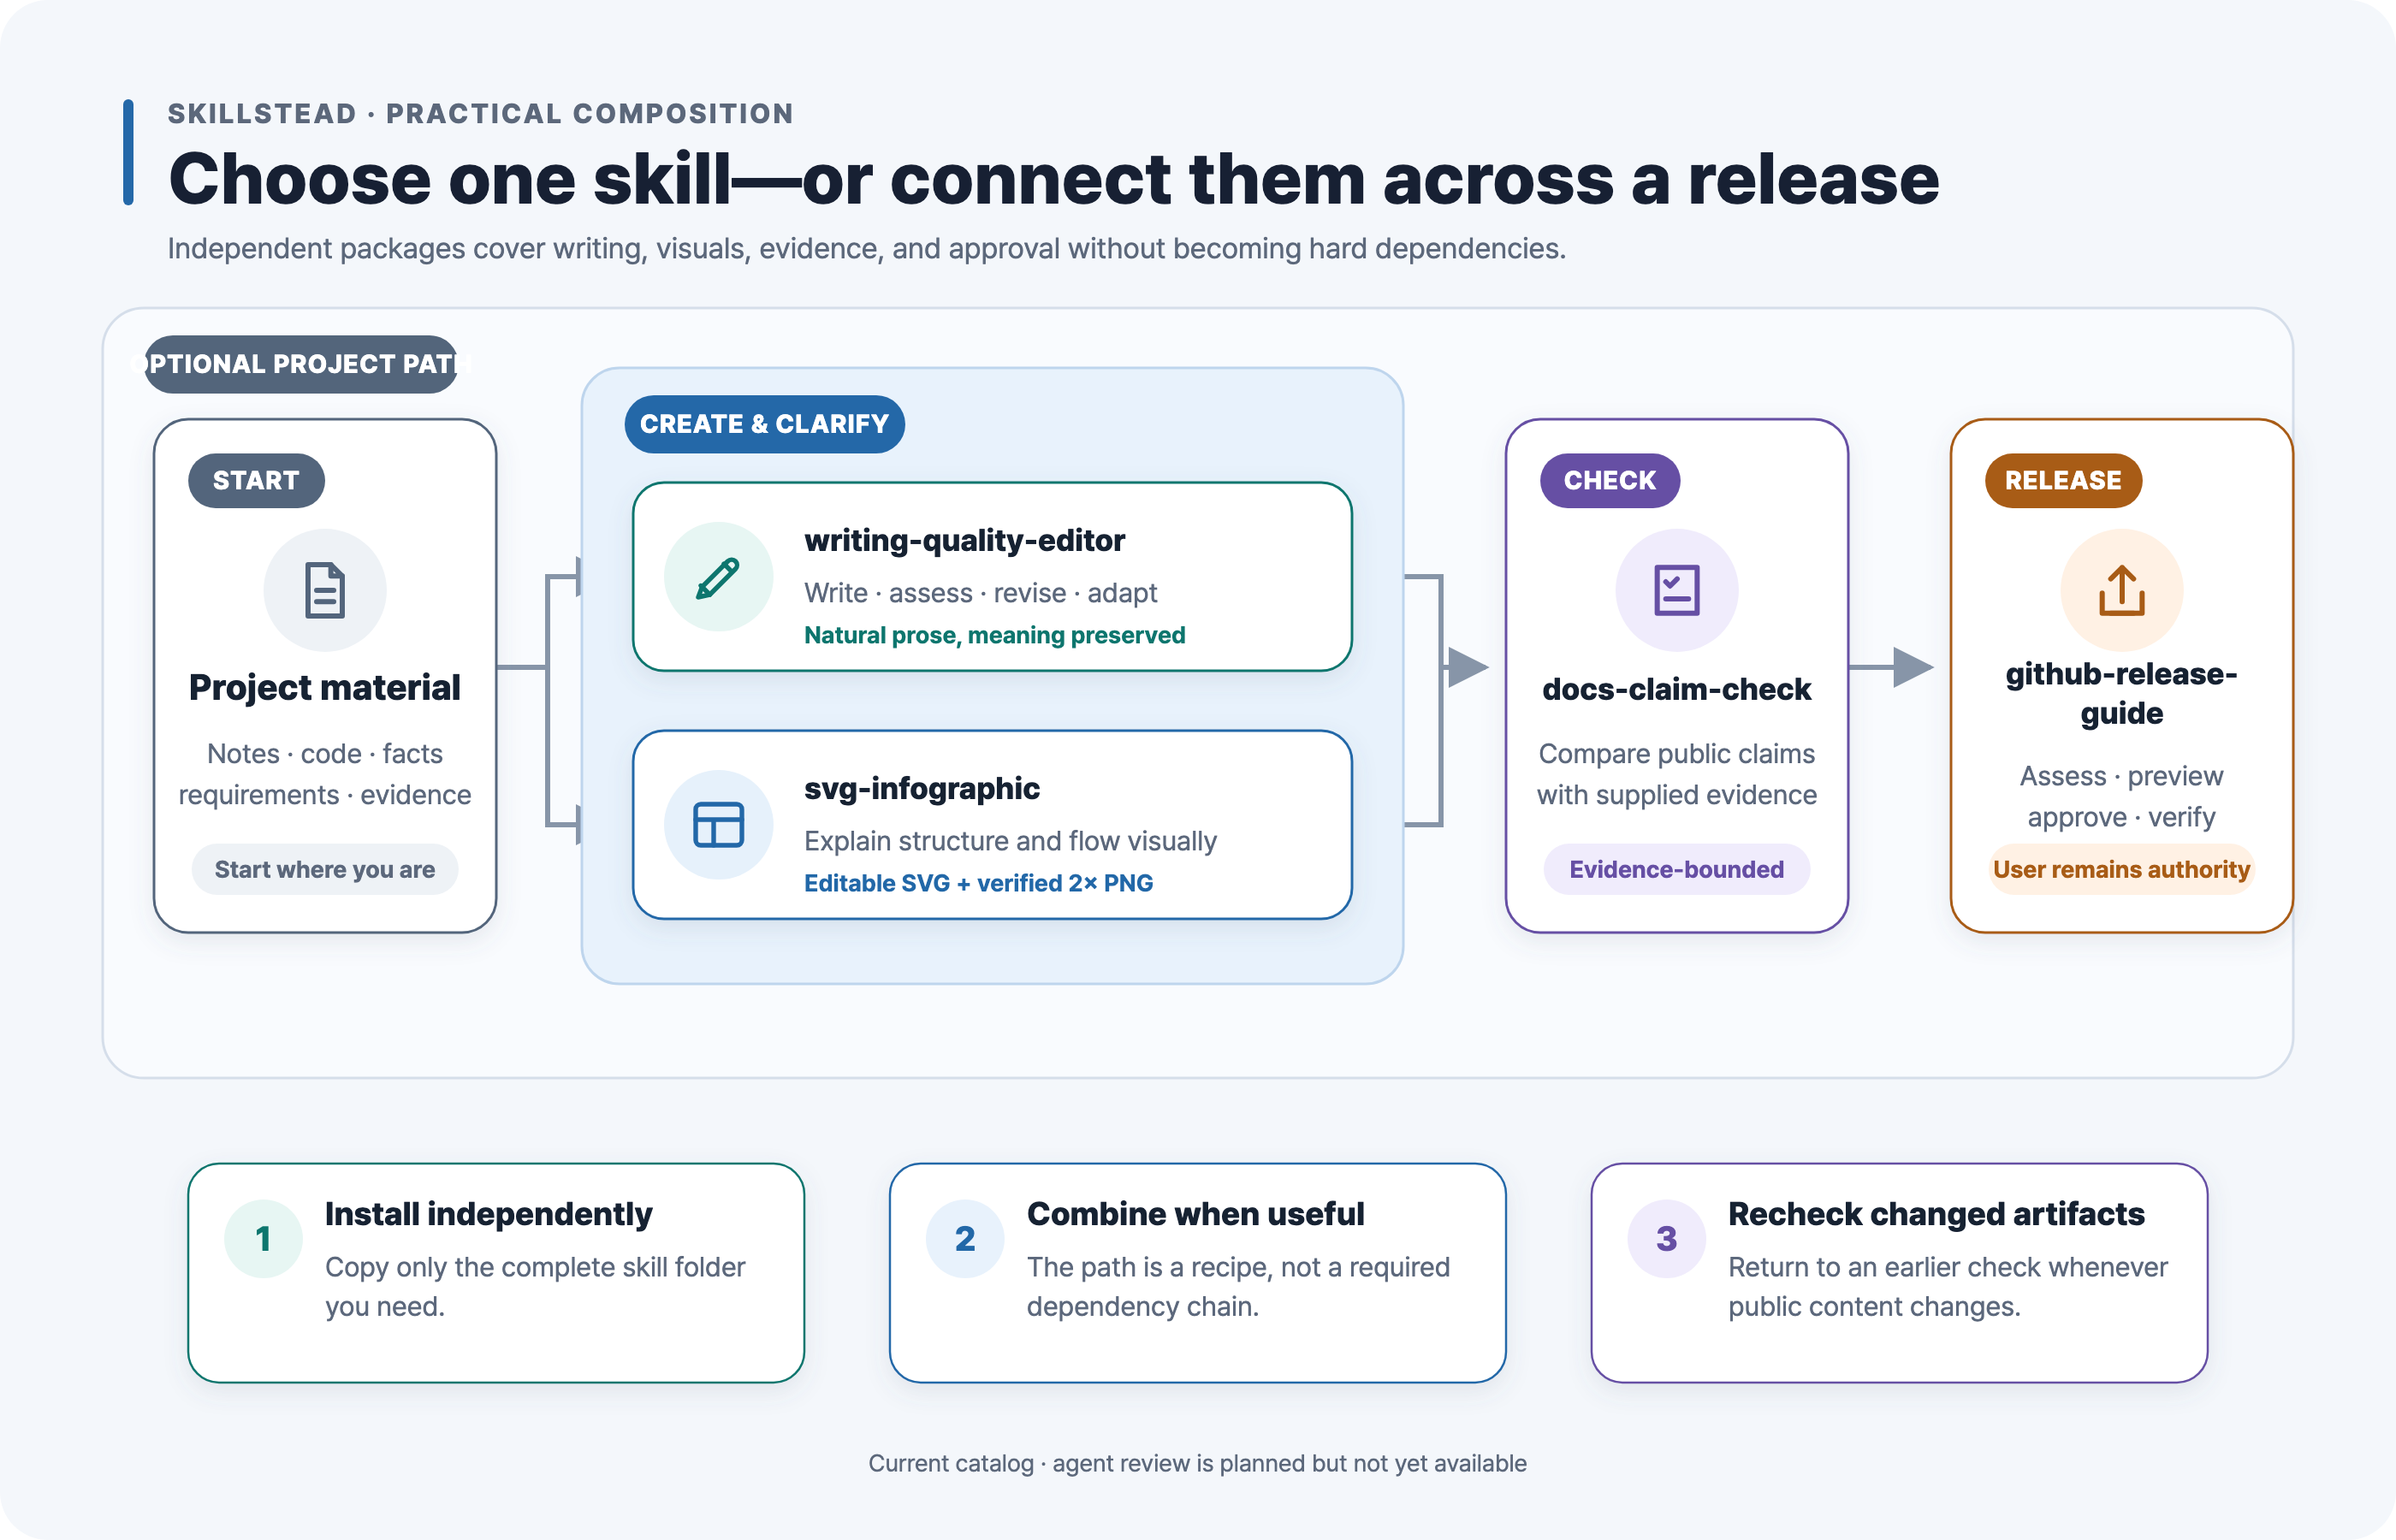
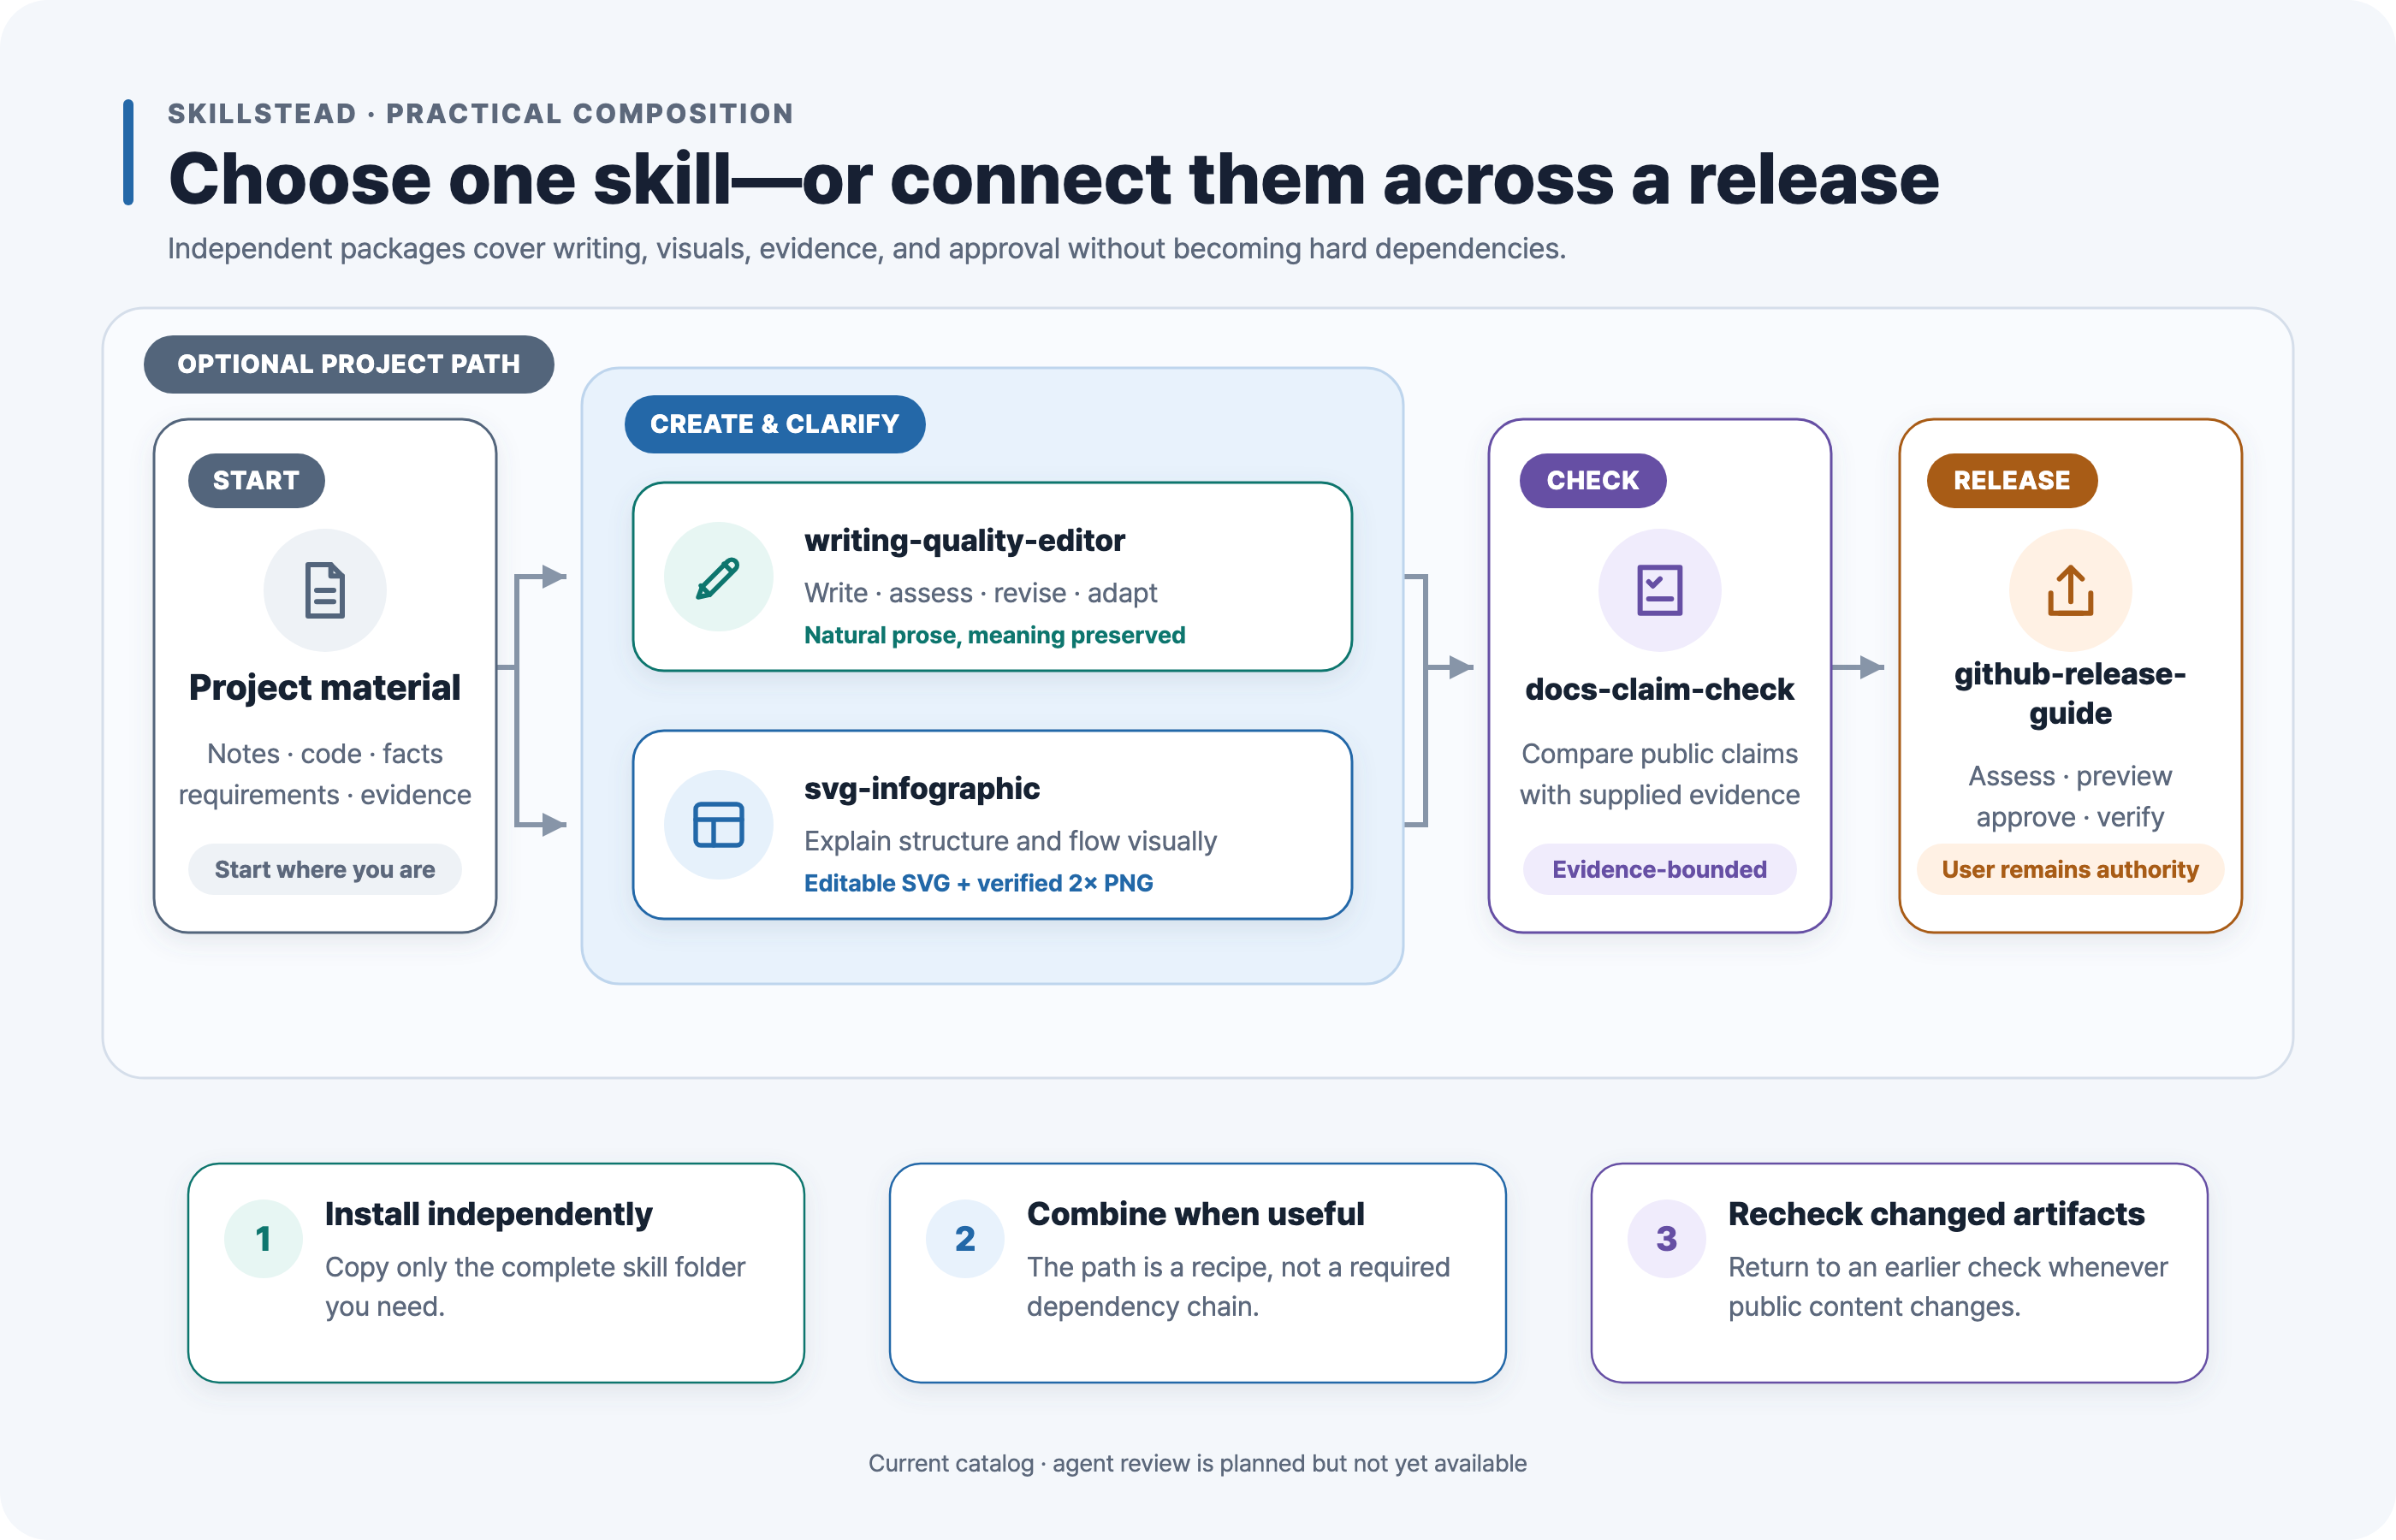
release: v0.7.0 릴리스 준비와 SVG 안정성 보강
writing-quality-editor의 릴리스 문서와 검증 근거를 정리하고,
catalog overview dogfood에서 확인한 containment 및 connector 규칙을 보강한다.

diff --git a/examples/catalog-overview-validation-evidence-20260718.md b/examples/catalog-overview-validation-evidence-20260718.md
@@ -1,0 +1,35 @@
+# Catalog Overview Connector Validation — 2026-07-18
+
+## Scope
+
+- Assets: `examples/catalog-overview.en.svg`, `examples/catalog-overview.ko.svg`, and their 2× PNG exports.
+- Reusable contract: `skills/svg-infographic/SKILL.md` and `skills/svg-infographic/references/authoring.md`.
+- Trigger: clipped pill labels, a release card outside its parent panel, and connectors whose arrowheads obscured nearly all of the visible shaft.
+- Provenance: Claude Code implemented and rendered the correction and performed full-frame/crop QA; Codex independently re-opened both final PNGs and reran the package, XML, geometry-parity, dimension, and whitespace checks below.
+
+## Corrective Design
+
+- Count stroke, shadow, badges, and markers when calculating visual containment.
+- Size pills and badges from the wider rendered label plus horizontal padding.
+- Use `markerUnits="userSpaceOnUse"` for predictable arrowhead geometry and place the marker tip at the path endpoint.
+- Budget the connector corridor for the arrowhead, a visible shaft, and an 8–12 px target gap.
+- Choose among a standard arrow, compact arrow, transition glyph, or layout reflow according to meaning and available space.
+
+The catalog keeps standard arrows because its connectors carry one consistent visual language. The final short corridor was widened by moving the check and release stages within the existing panel instead of widening the canvas.
+
+## Verification Results
+
+| Check | Result |
+| --- | --- |
+| Skill package validator | Pass — `Skill is valid!` |
+| SVG XML parse (`xmllint --noout`) | Pass — 2/2 |
+| English/Korean geometry parity | Pass — 117/117 ordered elements match on geometry attributes |
+| PNG dimensions (`sips`) | Pass — both exports are 2800 × 1800 |
+| Repository whitespace check (`git diff --check`) | Pass |
+| Full-frame and connector-crop visual review | Pass — no clipping, escaped card, CJK tofu, unresolved connector, or head-only arrow observed |
+
+## Evidence Boundary
+
+- Validation was performed on macOS against the catalog overview pair and the current skill package.
+- Geometry parity compares ordered SVG elements and geometry attributes; localized text intentionally differs.
+- Visual review is bounded to these rendered assets. It demonstrates the revised contract on this dogfood case, not that every future diagram will pass without its own pre-render and PNG review.

diff --git a/examples/writing-quality-editor/release-claim-audit-v0.7.0-prepublish-20260718.md b/examples/writing-quality-editor/release-claim-audit-v0.7.0-prepublish-20260718.md
@@ -1,0 +1,33 @@
+## Input Scope Reviewed
+
+- Documents: release-critical claims quoted from `README.md`, `README.ko.md`, `docs/INSTALL.md`, `skills/writing-quality-editor/README.md`, `skills/writing-quality-editor/README.ko.md`, and the proposed `CHANGELOG.md` v0.7.0 section; reviewed 2026-07-18.
+- Evidence reviewed: `RELEASE-EVIDENCE.md` with repository, merge, package-validation, clean-install, and runtime outputs observed through 2026-07-18 12:50 KST; `fixtures/validation-evidence.md`; `playbook-dogfood-claim-audit-follow-up-20260718.md`; `playbook-dogfood-claim-audit-parity-correction-20260718.md`; the merged `skills/writing-quality-editor/SKILL.md`.
+- Requested but missing: a published `v0.7.0` tag and fresh pinned-tag clone, package-equality, and Claude Code/Codex discovery outputs. The tag does not yet exist because publication remains separately approval-gated.
+- Excluded: historical v0.1.0–v0.6.0 claims and claims for `docs-claim-check` and `github-release-guide` (outside the v0.7.0 WQE release delta); the later `svg-infographic` connector and containment delta (recorded through separate mechanical and visual validation in `examples/catalog-overview-validation-evidence-20260718.md`); subjective prose-quality promises (not objectively decidable); security claims (outside claim-check scope); link and render correctness (separate mechanical validation).
+- Commands executed during the assessment: none
+- Coverage: 13 claims extracted / 13 assessed / 0 excluded
+
+## Claim Assessments
+
+| ID | Atomic claim + location | Evidence anchor | Label | Reason | Limitation / Evidence request |
+| --- | --- | --- | --- | --- | --- |
+| RC-1 | `writing-quality-editor` is a new Beta skill — `CHANGELOG.md` v0.7.0 | Merged package inventory, PR #18 merge `7b65d70`, root catalog maturity row | `verified` | The package first appears in the v0.7.0 delta and every reviewed maturity label is Beta. | Verified for the reviewed merge and release-prep documents; no Stable claim is implied. |
+| RC-2 | The core modes are Compose, Assess, Revise, and Adapt — changelog and skill README | `SKILL.md` `Choose The Mode`; both clean discovery outputs | `verified` | The contract defines those four modes in that order, and both runtimes returned the same ordered list after loading the installed skill. | Mode behavior is bounded by the recorded fixture and discovery evidence. |
+| RC-3 | The contract protects facts, intent, voice, conditions, numbers, identifiers, limitations, risks, approvals, and next actions — changelog | `SKILL.md` `Bound The Meaning Before Writing` and `Run The Delta Audit` | `verified` | Every named invariant is explicitly included in the ledger or delta-audit contract. | This verifies the documented contract and recorded behavior, not technical enforcement by a sandbox. |
+| RC-4 | The package has EN/KO READMEs, UI metadata, three named references, 21 scenarios, and a separate answer key — changelog | Merge package inventory; validator result; scenario/answer-key parity in `validation-evidence.md` | `verified` | The installed package shape contains the claimed user-facing and reference files; repository evidence records 21 scenarios and 21 answer-key rows. | Fixtures and answer key are repository-only and are not part of the installed package. |
+| RC-5 | Cross-runtime behavior, repository dogfood, and clean merge-commit installation/discovery passed — changelog | `validation-evidence.md`; dogfood audit pair; clean-install output in `RELEASE-EVIDENCE.md` | `verified` | The evidence records the behavior/parity legs, scoped README and playbook dogfood, byte-identical installs, and successful skill loading on both runtimes. | This does not verify a published tag or justify `Supported` before post-release closure. |
+| RC-6 | Runtime support remains unclaimed/Pending until pinned v0.7.0 verification and post-release claim closeout — root README and install matrix | Public wording in the scoped documents; release-state and remaining-gate entries in `RELEASE-EVIDENCE.md` | `verified` | The documents consistently retain Pending/unclaimed status and identify the same two remaining gates. | This is a current process/status claim, not evidence that the future gates will pass. |
+| RC-7 | Initial recorded localization coverage is limited to English↔Korean with `ko-KR` Korean output — root README and changelog | `SKILL.md` frontmatter and EN↔KO reference; fixture coverage in `validation-evidence.md` | `verified` | The contract names EN↔KO as the initial profile and explicitly prohibits unvalidated locale claims. | Locale-neutral design is an architecture statement; behavioral evidence is limited to EN↔KO. |
+| RC-8 | English-primary playbook authority activated at PR #18 merge `7b65d70`, with Korean atomic-parity mirrors — changelog | Owner approval and PC-1 closure recorded in `validation-evidence.md`; merge state in `RELEASE-EVIDENCE.md`; corrective parity audit | `verified` | The owner-approved flip condition and exact merge anchor are present, and the reviewed pair contract identifies Korean files as mirrors. | Future semantic changes still require same-change-unit EN/KO parity review. |
+| RC-9 | The complete skill package was byte-identical after clean merge-commit installation and discovered by Claude Code and Codex — install guide | Clean-install procedure and exact runtime outputs in `RELEASE-EVIDENCE.md` | `verified` | Both recursive comparisons reported no differences, and both fresh runtimes loaded `SKILL.md` and returned contract-specific content. | Observed on macOS with Claude Code 2.1.214 and Codex CLI 0.144.1 at merge `7b65d70`. |
+| RC-10 | Commands pinned to v0.7.0 can clone that tag and copy a complete skill folder — install guide | Release-state section of `RELEASE-EVIDENCE.md` | `unsupported` | `missing-evidence`: `v0.7.0` does not yet exist, so the operational pinned-clone outcome cannot be observed. | After publication, run `git clone --depth 1 --branch v0.7.0 https://github.com/kyungseo/skillstead.git <fresh-dir>`, compare the package with the tag source, copy it to each project skill path, and record discovery outputs. |
+| RC-11 | The installed WQE package contains `SKILL.md`, EN/KO READMEs, `agents/openai.yaml`, and three references while fixtures remain repository-only — install guide | Installed-package file inventory and source/install comparison in `RELEASE-EVIDENCE.md`; merged repository layout | `verified` | The installed copies contain exactly the named package files, while fixture paths are outside `skills/writing-quality-editor`. | Verified for the merge-commit package; recheck the published tag copy. |
+| RC-12 | The skill does not claim detector evasion, evidence verification, arbitrary locale support, or ownership over host artifact workflows — skill README | `SKILL.md` frontmatter, `Respect Host Artifact Workflows`, `Boundaries`, and research-backed Compose contract | `verified` | The contract explicitly prohibits detector gaming, separates writing from evidence verification, blocks unvalidated locale claims, and keeps host workflow ownership primary. | These are procedural boundaries, not proof that every host model will comply outside the recorded tests. |
+| RC-13 | Root catalog labels WQE as Beta with runtime validation pending — root README | Root catalog row and limitation section; release state in `RELEASE-EVIDENCE.md` | `verified` | Both maturity and runtime labels match the current evidence boundary. | Reassess only after pinned-tag verification and post-release claim closeout. |
+
+## Boundary Notes
+
+- Labels apply only to the documented input scope and reviewed evidence.
+- No command was executed during the assessment.
+- No code-quality or security assessment was performed.
+- No patch or replacement text was generated.

diff --git a/docs/INSTALL.md b/docs/INSTALL.md
@@ -3,10 +3,11 @@
 Skillstead packages each skill as a portable folder. Installation means cloning a reviewed ref and copying one
 complete folder; no remote install script is executed.
 
-> **Release verification:** `v0.6.0` is published. Its pinned installation/discovery check passed on both
-> Claude Code and Codex: the fresh pinned clone matched the released source, and the complete copied package
-> was discovered and loaded in a clean context on each runtime. The pre-release documentation claim audit
-> passed before publication. The runtime support matrix below reflects the recorded evidence scope; use the
+> **Release verification:** The commands below are pinned to `v0.7.0`. The pre-release documentation claim audit
+> completed with the unpublished tag's operational install claim still open, and the merged
+> `writing-quality-editor` package was discovered from byte-identical clean project installs on Claude Code and
+> Codex. Pinned `v0.7.0` installation/discovery is a post-release check, so that skill's public runtime support
+> remains Pending until the result is recorded. The matrix below reflects the current evidence scope; use the
 > latest-development ref only when you deliberately want an unreleased evaluation.
 
 ## Runtime support
@@ -18,7 +19,7 @@ Runtime support is verified per skill:
 | `svg-infographic` | Supported | Not yet claimed | Browser-based PNG rendering verified on macOS through Claude Code; Windows/Linux paths remain pending |
 | `docs-claim-check` | Supported | Not yet claimed | Behavioral fixtures passed with Claude Code Fable and Sonnet |
 | `github-release-guide` | Supported | Supported | Clean material parity (incl. protection fixtures), disposable first-public and Guided tag-ruleset live E2E, pinned `v0.5.0`/`v0.6.0` project installation/discovery, and release claim audits passed |
-| `writing-quality-editor` | Pending | Pending | Four-mode, 21-scenario cross-runtime behavior and repository dogfood passed; clean installation/discovery and the final public-claim gate remain |
+| `writing-quality-editor` | Pending | Pending | Four-mode, 21-scenario cross-runtime behavior, repository dogfood, and clean merge-commit installation/discovery passed; pinned `v0.7.0` verification and post-release claim closeout remain |
 
 Copy only a skill whose runtime column says Supported for normal use. A Pending skill may be copied into an
 isolated test repository for evaluation without earning a public support claim.
@@ -40,7 +41,7 @@ needed.
 ### Claude Code — macOS/Linux
 
 ```bash
-git clone --depth 1 --branch v0.6.0 https://github.com/kyungseo/skillstead.git /tmp/skillstead
+git clone --depth 1 --branch v0.7.0 https://github.com/kyungseo/skillstead.git /tmp/skillstead
 mkdir -p ~/.claude/skills
 cp -R /tmp/skillstead/skills/github-release-guide ~/.claude/skills/
 ```
@@ -48,7 +49,7 @@ cp -R /tmp/skillstead/skills/github-release-guide ~/.claude/skills/
 ### Codex — macOS/Linux
 
 ```bash
-git clone --depth 1 --branch v0.6.0 https://github.com/kyungseo/skillstead.git /tmp/skillstead
+git clone --depth 1 --branch v0.7.0 https://github.com/kyungseo/skillstead.git /tmp/skillstead
 mkdir -p ~/.agents/skills
 cp -R /tmp/skillstead/skills/github-release-guide ~/.agents/skills/
 ```
@@ -56,7 +57,7 @@ cp -R /tmp/skillstead/skills/github-release-guide ~/.agents/skills/
 ### Claude Code — Windows PowerShell
 
 ```powershell
-git clone --depth 1 --branch v0.6.0 https://github.com/kyungseo/skillstead.git "$env:TEMP\skillstead"
+git clone --depth 1 --branch v0.7.0 https://github.com/kyungseo/skillstead.git "$env:TEMP\skillstead"
 New-Item -ItemType Directory -Force "$env:USERPROFILE\.claude\skills" | Out-Null
 Copy-Item -Recurse -Force "$env:TEMP\skillstead\skills\github-release-guide" "$env:USERPROFILE\.claude\skills\"
 ```
@@ -64,7 +65,7 @@ Copy-Item -Recurse -Force "$env:TEMP\skillstead\skills\github-release-guide" "$e
 ### Codex — Windows PowerShell
 
 ```powershell
-git clone --depth 1 --branch v0.6.0 https://github.com/kyungseo/skillstead.git "$env:TEMP\skillstead"
+git clone --depth 1 --branch v0.7.0 https://github.com/kyungseo/skillstead.git "$env:TEMP\skillstead"
 New-Item -ItemType Directory -Force "$env:USERPROFILE\.agents\skills" | Out-Null
 Copy-Item -Recurse -Force "$env:TEMP\skillstead\skills\github-release-guide" "$env:USERPROFILE\.agents\skills\"
 ```
@@ -76,7 +77,7 @@ Run from the target repository root. Commit the copied folder if the team should
 ### Claude Code — macOS/Linux
 
 ```bash
-git clone --depth 1 --branch v0.6.0 https://github.com/kyungseo/skillstead.git /tmp/skillstead
+git clone --depth 1 --branch v0.7.0 https://github.com/kyungseo/skillstead.git /tmp/skillstead
 mkdir -p .claude/skills
 cp -R /tmp/skillstead/skills/github-release-guide .claude/skills/
 ```
@@ -84,7 +85,7 @@ cp -R /tmp/skillstead/skills/github-release-guide .claude/skills/
 ### Codex — macOS/Linux
 
 ```bash
-git clone --depth 1 --branch v0.6.0 https://github.com/kyungseo/skillstead.git /tmp/skillstead
+git clone --depth 1 --branch v0.7.0 https://github.com/kyungseo/skillstead.git /tmp/skillstead
 mkdir -p .agents/skills
 cp -R /tmp/skillstead/skills/github-release-guide .agents/skills/
 ```
@@ -94,14 +95,14 @@ cp -R /tmp/skillstead/skills/github-release-guide .agents/skills/
 Use `.claude\skills` for Claude Code or `.agents\skills` for Codex:
 
 ```powershell
-git clone --depth 1 --branch v0.6.0 https://github.com/kyungseo/skillstead.git "$env:TEMP\skillstead"
+git clone --depth 1 --branch v0.7.0 https://github.com/kyungseo/skillstead.git "$env:TEMP\skillstead"
 New-Item -ItemType Directory -Force ".agents\skills" | Out-Null
 Copy-Item -Recurse -Force "$env:TEMP\skillstead\skills\github-release-guide" ".agents\skills\"
 ```
 
 ## Latest development ref
 
-Omit `--branch v0.6.0` to copy the current default branch. This is useful for evaluation, not reproducible
+Omit `--branch v0.7.0` to copy the current default branch. This is useful for evaluation, not reproducible
 team installation. Pinned tags are recommended for teams and release evidence.
 
 ## Manual package shape

diff --git a/CHANGELOG.md b/CHANGELOG.md
@@ -4,7 +4,7 @@ Notable changes to this repository. Format based on [Keep a Changelog](https://k
 
 Granular, per-change entries begin at the first public release. Earlier development history is in the git log.
 
-## [Unreleased]
+## [0.7.0] — 2026-07-18
 
 ### writing-quality-editor (new skill, Beta)
 
@@ -34,8 +34,9 @@ Granular, per-change entries begin at the first public release. Earlier developm
 - **Portable package and fixtures.** The self-contained skill includes English/Korean READMEs, UI metadata, a
   profile-aware review rubric, dedicated EN↔KO and research-backed Compose references. Twenty-one scenarios and a
   separate answer key cover seven document profiles, meaning drift, over-editing, `needs-human`, and protected
-  identifiers. Cross-runtime behavior and repository dogfood pass; runtime support remains Pending until clean
-  installation/discovery and the final public-claim gate finish.
+  identifiers. Cross-runtime behavior, repository dogfood, and clean merge-commit installation/discovery pass;
+  runtime support remains Pending until pinned `v0.7.0` installation/discovery and the post-release claim closeout
+  finish.
 - **Fresh-context contract correction.** The first Claude Code behavior leg passed six of eight high-signal
   scenarios and exposed repeatable misses in ambiguous destructive UI and actorless release procedures. The
   strengthened contract passed the post-fix regression set on both runtimes, bounded R2 approved the result, and
@@ -48,6 +49,17 @@ Granular, per-change entries begin at the first public release. Earlier developm
   F12 text. `Revise` now requires a concrete reader problem before any wording, sentence, punctuation, or formatting
   change and returns the source exactly when all candidate changes are Neutral.
 
+### svg-infographic
+
+- **Connector and containment hardening.** Visual bounds now include strokes, shadows, and outlying children;
+  pill and badge widths are derived from label width plus padding; and connector planning budgets the real marker footprint,
+  a readable shaft, and the target gap. Tight corridors may use a compact arrow, a transition glyph, or a layout
+  reflow instead of forcing a clipped standard arrow.
+- **Catalog dogfood.** The English/Korean catalog overview was re-rendered after applying the new rules. Both SVGs
+  parse cleanly, use matching geometry, and export to 2800 × 1800 PNGs without clipped labels, escaped cards, or
+  head-only arrows. The bounded verification is recorded in
+  [`examples/catalog-overview-validation-evidence-20260718.md`](examples/catalog-overview-validation-evidence-20260718.md).
+
 ### Repository
 
 - Root English/Korean READMEs add `writing-quality-editor` to the priority catalog with evidence-bounded Beta
@@ -55,8 +67,8 @@ Granular, per-change entries begin at the first public release. Earlier developm
 - **Public-release playbook bilingualization.** Eight Korean-primary source documents are preserved as `.ko.md`
   mirrors, while natural English candidates use the canonical filenames. Every pair has a visible language
   switch, same-language internal links, matching checklist decisions, and an atomic-parity maintenance rule. The
-  owner approved the English authority flip after independent parity review; it takes effect when the
-  bilingualization pull request merges, using that merge commit as the DR-810 anchor.
+  owner approved the English authority flip after independent parity review. PR #18 merged as `7b65d70`, which is
+  the DR-810 anchor; the English documents are now canonical and the Korean documents are atomic-parity mirrors.
 
 ## [0.6.0] — 2026-07-17
 

diff --git a/examples/writing-quality-editor/fixtures/validation-evidence.md b/examples/writing-quality-editor/fixtures/validation-evidence.md
@@ -1,7 +1,7 @@
 # Scenario Validation Evidence
 
 This ledger separates static contract review from fresh-context runtime behavior. Runtime support remains Pending
-until recorded executions and repository dogfood justify a narrower claim.
+until pinned `v0.7.0` installation/discovery and the post-release claim closeout justify a narrower claim.
 
 ## Static Contract Gate
 
@@ -28,6 +28,7 @@ This gate verifies package consistency, not independent model behavior.
 | Claude Code post-R2 amendment, 2026-07-18 | `claude-fable-5`; reasoning effort unobserved | One fresh subagent per scenario; complete metadata; answer key withheld until all first runs completed; bounded live research for F19/F20 | Pass: F01, F02, F12, F16–F20; corrective reruns 0 |
 | Codex post-R2 amendment, 2026-07-18 | Model and reasoning effort unobserved | One no-history context per scenario; skill package and complete scenario only; answer key withheld; bounded live research for F19/F20 | Pass: F01, F02, F12, F19, F20, F21; corrective reruns 0 |
 | Claude Code F21, 2026-07-18 | `claude-fable-5`; reasoning effort unobserved | One fresh subagent; installed skill folder and complete F21 metadata only; answer key and prior evidence withheld | Pass: F21; corrective reruns 0 |
+| Post-merge clean install/discovery, 2026-07-18 | Claude Code 2.1.214; Codex CLI 0.144.1, `gpt-5.6-sol`, effort `none` | Complete package downloaded from merge commit `7b65d70` into fresh project-local `.claude/skills` and `.agents/skills` paths; no prior session history; read-only discovery prompts | Pass on both runtimes: source and installed packages were byte-identical; each runtime loaded `SKILL.md`, returned `Compose, Assess, Revise, Adapt` in contract order, and identified `Bound The Meaning Before Writing`; zero mutations or corrective reruns. |
 
 ### Claude Code Pre-Fix Leg
 
@@ -191,8 +192,8 @@ Status: Cross-runtime material parity pass; playbook dogfood entry open.
 
 ### Repository Dogfood — Public-Release Playbooks
 
-Status: Behavior and bilingual parity pass; English authority flip awaits the separate owner approval and merge
-anchor required by DR-810.
+Status: Behavior and bilingual parity pass; English authority activated at PR #18 merge commit `7b65d70`, the
+DR-810 anchor.
 
 - The eight Korean-primary source documents were preserved as `.ko.md` mirrors, and eight English candidates now
   occupy the canonical filenames: the playbook catalog index plus seven `public-release` documents.
@@ -209,8 +210,7 @@ anchor required by DR-810.
   package's self-contained installation boundary. Social copy and copy-ready settings templates remain intentional
   human-reference-only differences.
 - Claim audit PC-6 initially lacked the explicit mirror mapping and passed the narrow follow-up after the mapping
-  was recorded. PC-1 remains an expected release gate: public files are candidates until the owner approves the
-  authority flip and the Skillstead PR merge supplies the anchor.
+  was recorded. PC-1 closed when the owner-approved authority flip was activated by PR #18 merge commit `7b65d70`.
 - Claim audit evidence:
   [`../playbook-dogfood-claim-audit-20260718.md`](../playbook-dogfood-claim-audit-20260718.md) and
   [`../playbook-dogfood-claim-audit-follow-up-20260718.md`](../playbook-dogfood-claim-audit-follow-up-20260718.md).
@@ -221,7 +221,7 @@ anchor required by DR-810.
 - The original broad PC-5 parity judgment is superseded for those lines by the corrective assessment:
   [`../playbook-dogfood-claim-audit-parity-correction-20260718.md`](../playbook-dogfood-claim-audit-parity-correction-20260718.md).
   The independent reviewer confirmed DF-1–DF-5 closure with no new regression. The owner approved the authority
-  flip on 2026-07-18; activation and PC-1 closure still await the Skillstead PR merge anchor required by DR-810.
+  flip on 2026-07-18, and PR #18 merge commit `7b65d70` activated it and closed PC-1 under DR-810.
 
 The cross-runtime high-signal set uses F03, F04, F08, F09, F11, F12, F13, F14, and F15. It covers both adaptation
 directions, claim honesty, unresolved ambiguity, natural rewriting without detector gaming, over-editing refusal,

diff --git a/skills/svg-infographic/SKILL.md b/skills/svg-infographic/SKILL.md
@@ -62,6 +62,7 @@ Pick from the content signal, then **read that archetype's section in `reference
    - 1400–1600 wide: H1 40–44 / section 22 / card title 20–22 / body 16–17 / caption 13–14
    - 680-wide docs: title 22 / box label 14 / caption 11
 6. **Icons.** Derive every icon-circle center from card geometry (e.g. `cy = card_y + card_h/2`), never a hand-tuned per-language offset. EN and KO variants must share the **same formulas**.
+7. **Connector corridors.** Budget connectors like cards: `corridor = target_visual_left − source_visual_right`, and subtract the marker's real footprint (`markerUnits="strokeWidth"` multiplies it by the stroke width — formulas in `authoring.md` §3). If no readable shaft survives, choose a compact arrow, a transition glyph, or a reflow *now*, not after a render.
 
 ## 3. Author the SVG — core rules
 
@@ -85,7 +86,7 @@ Read `references/authoring.md` for the detailed rules and the reusable icon set.
 - **Boxes:** rounded rect `rx="8"` (wide bands `rx="12–22"`), hairline border `stroke-width:1`. Each box = tinted fill + same-family border + same-family text (one semantic color family per box).
 - **Vertical centering:** center text with `dominant-baseline="central"` and `y` at the box's vertical center. Two lines straddle the center: title at `center−11`, sub at `center+10`, both `central`. Never rely on the default alphabetic baseline for box labels — it sits high.
 - **Wrapping:** one planned line = one `<tspan x=.. dy=..>`; keep to the §2 text budget.
-- **Arrows:** define one `<marker>` arrowhead, use `marker-end`. Solid = sync/request, dashed (`stroke-dasharray="5 4"`) = async/batch/private. Leave an 8–12px gap before the target box.
+- **Arrows:** define one `<marker>` arrowhead, use `marker-end`. Solid = sync/request, dashed (`stroke-dasharray="5 4"`) = async/batch/private. Size the marker with `markerUnits="userSpaceOnUse"` and set `refX` so the tip lands on the path endpoint — the default `markerUnits="strokeWidth"` multiplies the head by the stroke width. Leave an 8–12px gap between tip and target box **and** keep a visible shaft behind the head; pick each connector's form (standard / compact / transition glyph / reflow) from the corridor budget (`authoring.md` §3).
 - **On-accent text is light:** any label on a saturated fill uses `class="on-accent"` (white/near-white) — never dark text on a mid/dark accent, and never rely on a blanket `text{fill}` rule to sort it out.
 - **Emphasis toolkit:** stroke + soft shadow + a number/status badge + a corner label + a filled icon badge. **No top accent bar on cards** (corner-smear and badge-collision failure modes — details and narrow exception in `authoring.md`).
 - **Icon-first (default on):** a line icon in a soft tinted circle (`r≈34–38`, tint `#E3EEF8`) per card/node, icon ~40px via `<use>`, recolor with `style="color:#…"`. Number badge **only when sequence or cross-reference matters** — never icon + redundant number.
@@ -94,13 +95,14 @@ Read `references/authoring.md` for the detailed rules and the reusable icon set.
 
 Check the SVG source mechanically; each item is cheaper here than after a PNG:
 
-1. **Containment re-check:** the §2 last-edge/bottom-edge arithmetic still holds for what you actually wrote (cards, arrows, badges, labels — including any element you added while authoring).
-2. **Text budget:** no `<text>`/`<tspan>` line exceeds its planned chars/line; box labels use `dominant-baseline="central"` with computed `y`.
+1. **Containment re-check:** the §2 last-edge/bottom-edge arithmetic still holds for what you actually wrote (cards, arrows, badges, labels — including any element you added while authoring). Judge **visual bounds**, not just the fill rect — half the stroke width, shadow spread, and children drawn outside the base rect count; in a padded panel, an edge that merely touches the parent is a fail, not a pass (formula in `authoring.md` §1).
+2. **Text budget:** no `<text>`/`<tspan>` line exceeds its planned chars/line; box labels use `dominant-baseline="central"` with computed `y`. **Pill/badge fit:** every pill/badge background covers its actual label width plus ≥ 14–16px padding per side, and EN/KO shared geometry fits the wider language's label (formula in `authoring.md` §2).
 3. **References resolve:** every `<use href="#id">` matches a defined `<symbol id>`; every `marker-end` references a defined `<marker>`; no dangling `url(#…)`.
 4. **Contrast classes:** every label on a saturated fill carries `class="on-accent"`; no blanket `text{fill}` rule that overrides on-accent labels via inheritance.
 5. **Corner clearance:** badges / status labels / corner icons in the same card corner region have ≥ 20–24px between bounding boxes.
 6. **EN/KO parity:** if generating both, the two variants share identical geometry formulas — only text (and text budget) differs.
 7. **Root sanity:** `viewBox` matches the intended W×H; `<title>`/`<desc>` present; font stack on the root.
+8. **Connector budget:** every connector's corridor and marker footprint are computed (§2.7); each standard arrow keeps a visible shaft (≥ 12–16px, not hidden under a card/panel by paint order) plus the 8–12px tip gap — a head-only arrow is a fail even when the gap is right; tight corridors carry a deliberate form choice (compact arrow, transition glyph, or reflow — `authoring.md` §3); EN/KO share connector geometry and semantics.
 
 ## 5. Render to PNG (2×)
 
@@ -126,6 +128,7 @@ The pre-render checklist covered the source; now check what only the pixels show
 
 - **Rendering:** no text overflow or clipped glyphs; text vertically centered in its box; correct Korean/CJK rendering (no tofu); PNG is exactly 2× the viewBox (render.sh reports this); icons visible (no blank circles); labels on accent fills read clearly (AA-like separation).
 - **Containment (visual):** every child sits inside its container plus inner padding — scan the PNG for anything touching or crossing a panel edge; an element can spill without touching any text.
+- **Connectors:** every arrow reads as shaft + head — no head-only arrows and no head buried under a panel or card; the head joins its shaft cleanly and neither touches the target border nor floats detached; a transition glyph reads as flow, not as an icon or play button.
 - **Message:** the archetype fits the content; one clear reading order; the title states a conclusion, not just a topic; text density stays low per box; any matrix/labels read unambiguously; depth and language fit the stated audience.
 - The SVG stays editable — tokens in one `<style>` block, no flattened or rasterized text.
 

diff --git a/README.ko.md b/README.ko.md
@@ -147,8 +147,9 @@ Codex의 핵심 행동 일치 검증, disposable 저장소의 실제 첫 공개 
 - `github-release-guide` v1은 비공개 github.com 저장소의 첫 공개 전환과, 공개 후 반복되는 각 버전 릴리스를
   다룹니다.
 - `writing-quality-editor`는 특정 언어에 고정되지 않도록 설계했지만, 초기 현지화 검증 자료는
-  영어↔한국어(한국어 결과는 `ko-KR`)만 다룹니다. 깨끗한 설치·발견 근거와 최종 공개 문구 검증이
-  끝날 때까지 실행 환경 지원 상태는 표시하지 않습니다.
+  영어↔한국어(한국어 결과는 `ko-KR`)만 다룹니다. 병합 커밋을 기준으로 한 깨끗한 설치·발견 검증은
+  통과했지만, `v0.7.0` 고정 버전 검증과 릴리스 후 최종 공개 문구 점검이 끝날 때까지 실행 환경 지원 상태는
+  표시하지 않습니다.
 - 자동 검사 결과가 깨끗하더라도 저장소에 보안 위험이 전혀 없다고 보장할 수는 없습니다.
 
 ## 라이선스

diff --git a/README.md b/README.md
@@ -144,8 +144,8 @@ live E2E, pinned `v0.5.0` project installation and discovery smoke, and the fina
 - `github-release-guide` v1 is github.com-only. It covers the one-time private-to-public transition and each
   version release after the repository is public.
 - `writing-quality-editor` is designed as locale-neutral, but its initial localization fixtures cover only
-  English↔Korean (`ko-KR` for Korean output). Runtime support remains unclaimed until clean installation and
-  discovery evidence and the final public-claim gate are complete.
+  English↔Korean (`ko-KR` for Korean output). Clean merge-commit installation and discovery passed, but runtime
+  support remains unclaimed until pinned `v0.7.0` verification and the post-release public-claim closeout finish.
 - A clean release or secret scan is best-effort, not proof that a repository has no security risk.
 
 ## License

diff --git a/skills/svg-infographic/references/authoring.md b/skills/svg-infographic/references/authoring.md
@@ -5,6 +5,7 @@ Detailed geometry, connector, panel, emphasis, color, and icon rules, plus the m
 ## 1. Geometry & containment
 
 - **Containment is arithmetic, not eyeballing.** Every child (card, icon, arrow, badge, label) sits inside its container/panel bounds **plus inner padding**, unless it is a deliberate outside-the-frame callout. For a row of repeated cards, compute the last card's far edge as `start + (n−1)·(cardW+gap) + cardW` and confirm it is `≤ container_edge − padding`; same for a column's bottom edge. If a row won't fit, shrink `cardW`/`gap`, wrap to a second row, or widen the canvas.
+- **Containment is judged on visual bounds, not the fill rect.** A child's visual edge = its rect/path edge **plus** half its stroke width, the drop-shadow spread (conservative margin: `abs(offset) + ~3 × stdDeviation`), and anything drawn outside the base rect (badge, corner label, marker/arrowhead). Pass condition on every side: `child_visual_edge ≤ parent_edge − inner_padding`. In a padded panel, a child that merely *touches* the parent edge is a containment failure even though the coordinates read "inside" — and a generous shadow *filter region* says nothing about containment. Keep left/right inner padding balanced, and fix an overflow by recomputing card width, gutters, or position inside the current region before reaching for a wider canvas.
 - **Paired / side-by-side boxes:** always leave a **visible gutter of 24–32px**; never let two boxes touch. Balance the left/right outer margins.
 - **Generous margins; align to a grid; consistent gutters.** Pick the margin and gutter values once in the layout pass and reuse them everywhere.
 - **Fill the box.** Size text so boxes read full — avoid a small label marooned in a large box. Prefer 2–3 lines of body text or an icon to balance a card, rather than shrinking the type.
@@ -14,10 +15,13 @@ Detailed geometry, connector, panel, emphasis, color, and icon rules, plus the m
 - **Vertical centering:** center text with `dominant-baseline="central"` and set `y` to the box's vertical center. For two lines, straddle the center: title at `center−11`, sub at `center+10`, both `central`. Never rely on the default alphabetic baseline for box labels — it sits high.
 - **Wrapping (SVG has no auto-wrap — the historical top failure mode):** break lines yourself with `<tspan x=.. dy=..>`. Keep ~28–36 chars/line for Latin, ~60% of that for Korean; 2–3 lines per box; abbreviate an over-long token rather than let it overflow. The text budget is set in the layout pass — re-check against the box width after writing.
 - **Type scale stays unified across the diagram** — never vary sizes per box to make something fit; fix the layout instead.
+- **Pill/badge labels — size the background from the text, not from a guess.** `pill_width ≥ text_width + 2 × padding` with ≥ 14–16px horizontal padding per side. All-caps or bold Latin labels (plus any letter-spacing) run wider than the body chars/line budget suggests — measure the rendered width in a browser when possible (same font stack the renderer uses), otherwise estimate conservatively from font size, weight, and script. With `text-anchor="middle"`, the text `x` must equal the computed rect center. When EN and KO share geometry, size the shared pill from the wider language's label. Never compress glyphs with `textLength`, and never shrink one label's font size to force a fit — fix the box geometry and padding first.
 
 ## 3. Connectors
 
 - **Routing:** prefer straight orthogonal (horizontal/vertical) connectors; avoid crossings — route around, or move the node. Leave an **8–12px gap** between the arrowhead and the target box. Place edge labels *beside* the line, never on top of it.
+- **Corridor budget — plan connectors numerically like cards.** For a horizontal connector, `corridor = target_visual_left − source_visual_right` (visual edges include stroke and shadow, §1). Compute the marker's real length before drawing: with the default `markerUnits="strokeWidth"`, `head_advance = markerWidth × stroke_width × (refX / viewBox_width)` — a "small" `markerWidth="8"` becomes a ~24px head on a 3px line; with `markerUnits="userSpaceOnUse"` the footprint is fixed in user units, so **prefer it** and set `refX` to the viewBox far edge so the tip lands exactly on the path endpoint. A standard arrow passes only when all of these hold: tip-to-target gap 8–12px; a *visible* shaft of ≥ 12–16px behind the head after subtracting source/target clearance, the head itself, and any segment hidden under a card or panel by paint order; the head does not take up most of the visible run; nothing intrudes into a card's stroke or shadow. "The target gap is right but the shaft is ≈ 0" is a **fail**, not a pass. Don't shrink a marker below directional legibility in the 2× PNG, and check the shaft–head joint there. The same formulas apply to vertical runs on the y-axis.
+- **Adaptive connector vocabulary — pick the form from meaning plus corridor; don't force one form everywhere.** *Standard arrow*: the line itself carries the relation (dependency, request, data flow) and the corridor affords the full budget above. *Compact arrow*: a relation line is still needed and the corridor is short, but a readable shaft survives the budget. *Standalone chevron / right-facing triangle*: a plain "next stage" transition between adjacent stages where the line adds no meaning — a deliberate choice, never a fallback for a clipped shaft; center it in the corridor with clear space on both sides, and echo the marker's shape so it reads as flow, not as an icon or play button. *Reflow*: branch, merge, async, feedback, and labeled edges keep their rails — when the final segment cannot meet the shaft minimum, recompute the route or card positions instead of disguising the edge as a glyph. EN/KO variants share connector geometry and transition semantics.
 - **Fan-out** (one source → many targets): one vertical stem from the source, one horizontal bus, then a centered vertical branch to each target. No orphan stubs, and no line that nearly overlaps a box edge.
 - **Zone aid for busy diagrams:** if nodes collide, assign each to a **3×3 zone** (top-left … center … bottom-right), route edges only between zones, and wrap co-located nodes in one group frame. A quick sketching aid to cut crossings — not a required schema; simple diagrams don't need it.
 - **Semantics:** one `<marker>` arrowhead definition reused via `marker-end`. Solid = sync/request/normal; dashed `stroke-dasharray="5 4"` = async/batch/private/feedback. Legend whenever both appear.

diff --git a/examples/writing-quality-editor/README.ko.md b/examples/writing-quality-editor/README.ko.md
@@ -10,6 +10,7 @@
 | `fixtures/scenarios.md` | Compose, Assess, Revise, Adapt를 다루는 요청과 원문 자료 21개 |
 | `fixtures/expected-outcomes.md` | 정답표와 의미 보존 점검표. 평가 대상 에이전트에게는 제공하지 않음 |
 | `fixtures/validation-evidence.md` | 정적 검사, 새 대화에서의 실행 기록, 중단 기준과 공개 문구의 근거 범위 |
+| `release-claim-audit-v0.7.0-prepublish-20260718.md` | 릴리스 필수 공개 문구 13건의 사전 평가와, 공개 후까지 남는 고정 태그 검증 항목 |
 
 정의된 문서 유형 7종, 같은 언어 안에서의 교정, EN→KO·KO→EN Adapt, 의미 변화, 과도한 수정,
 `needs-human`, 식별자 보호, 쉬운 문장으로 고쳐 쓰기, 탐지기 회피 없이 부자연스러운 반복 패턴 다듬기,

diff --git a/examples/writing-quality-editor/README.md b/examples/writing-quality-editor/README.md
@@ -11,6 +11,7 @@ is invented for this fixture set.
 | `fixtures/scenarios.md` | Twenty-one prompts and source materials covering Compose, Assess, Revise, and Adapt |
 | `fixtures/expected-outcomes.md` | Answer key and invariant checklist; keep away from agents under evaluation |
 | `fixtures/validation-evidence.md` | Static gate, fresh-context execution ledger, stop rule, and claim boundary |
+| `release-claim-audit-v0.7.0-prepublish-20260718.md` | Pre-release assessment of thirteen release-critical public claims and the one pinned-tag item that remains open until publication |
 
 The matrix covers all seven defined document profiles, same-language editing, both EN→KO and KO→EN adaptation,
 meaning drift, over-editing, `needs-human`, protected identifiers, plain-language rewriting, AI-style pattern